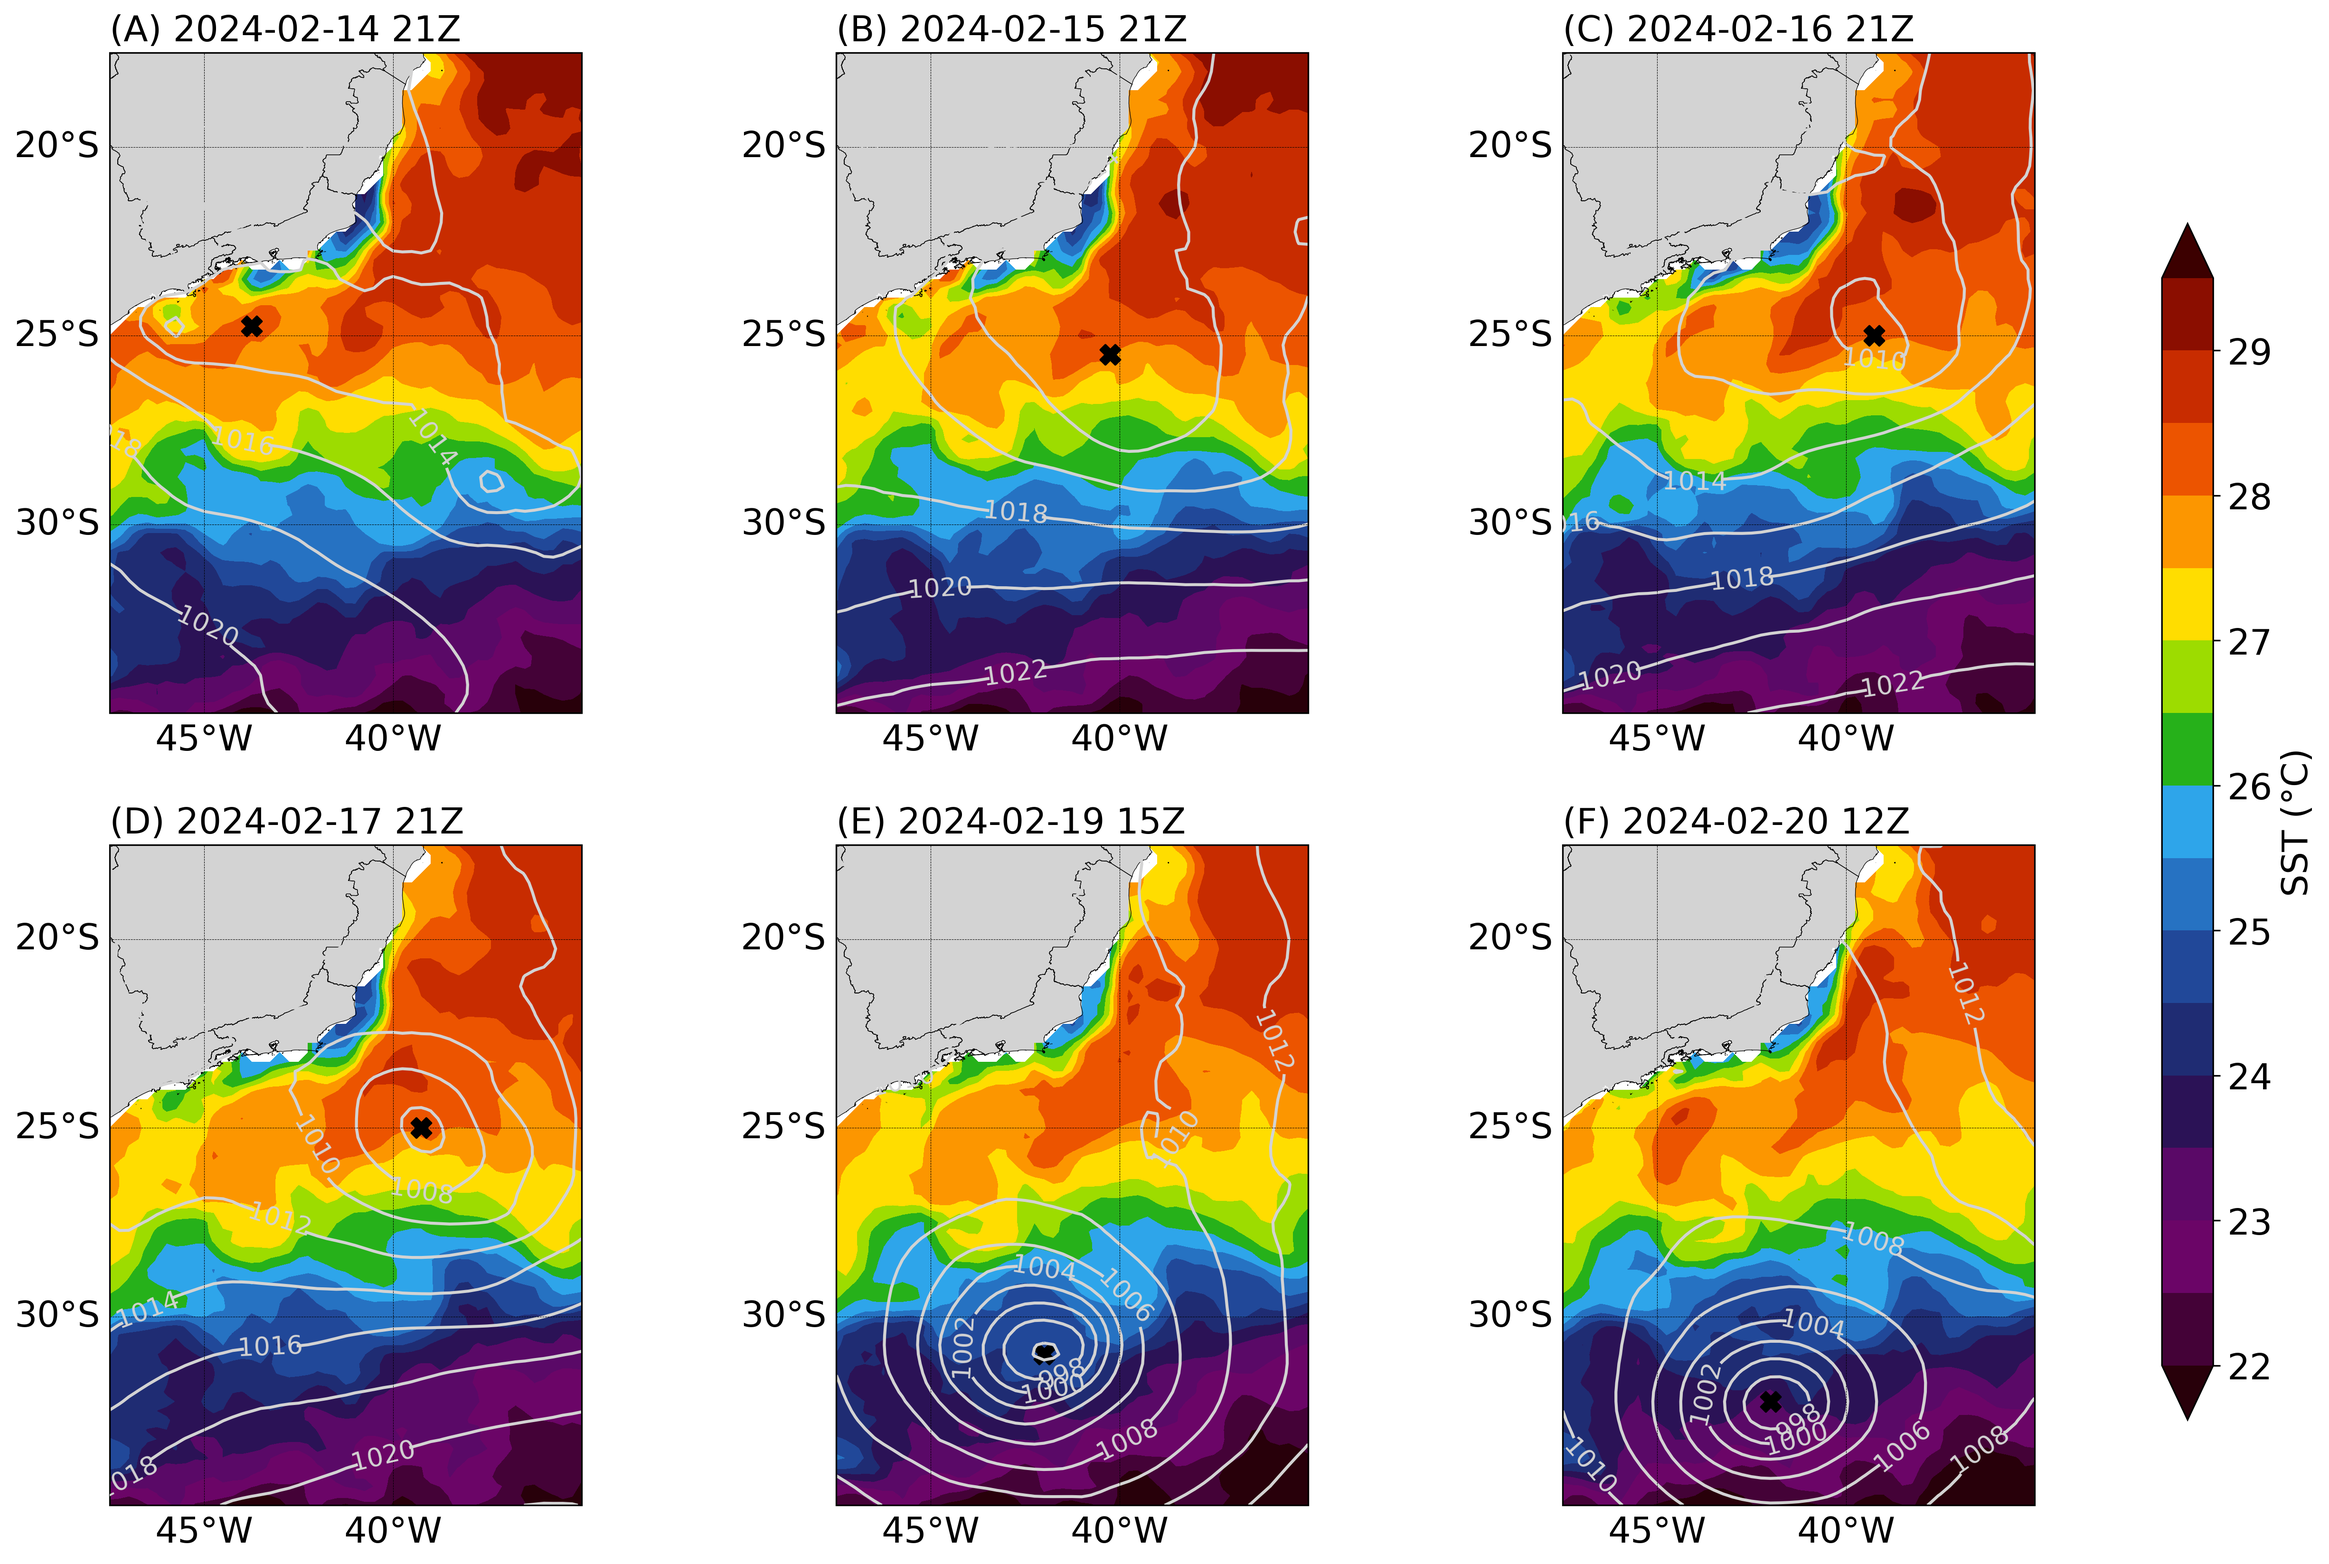
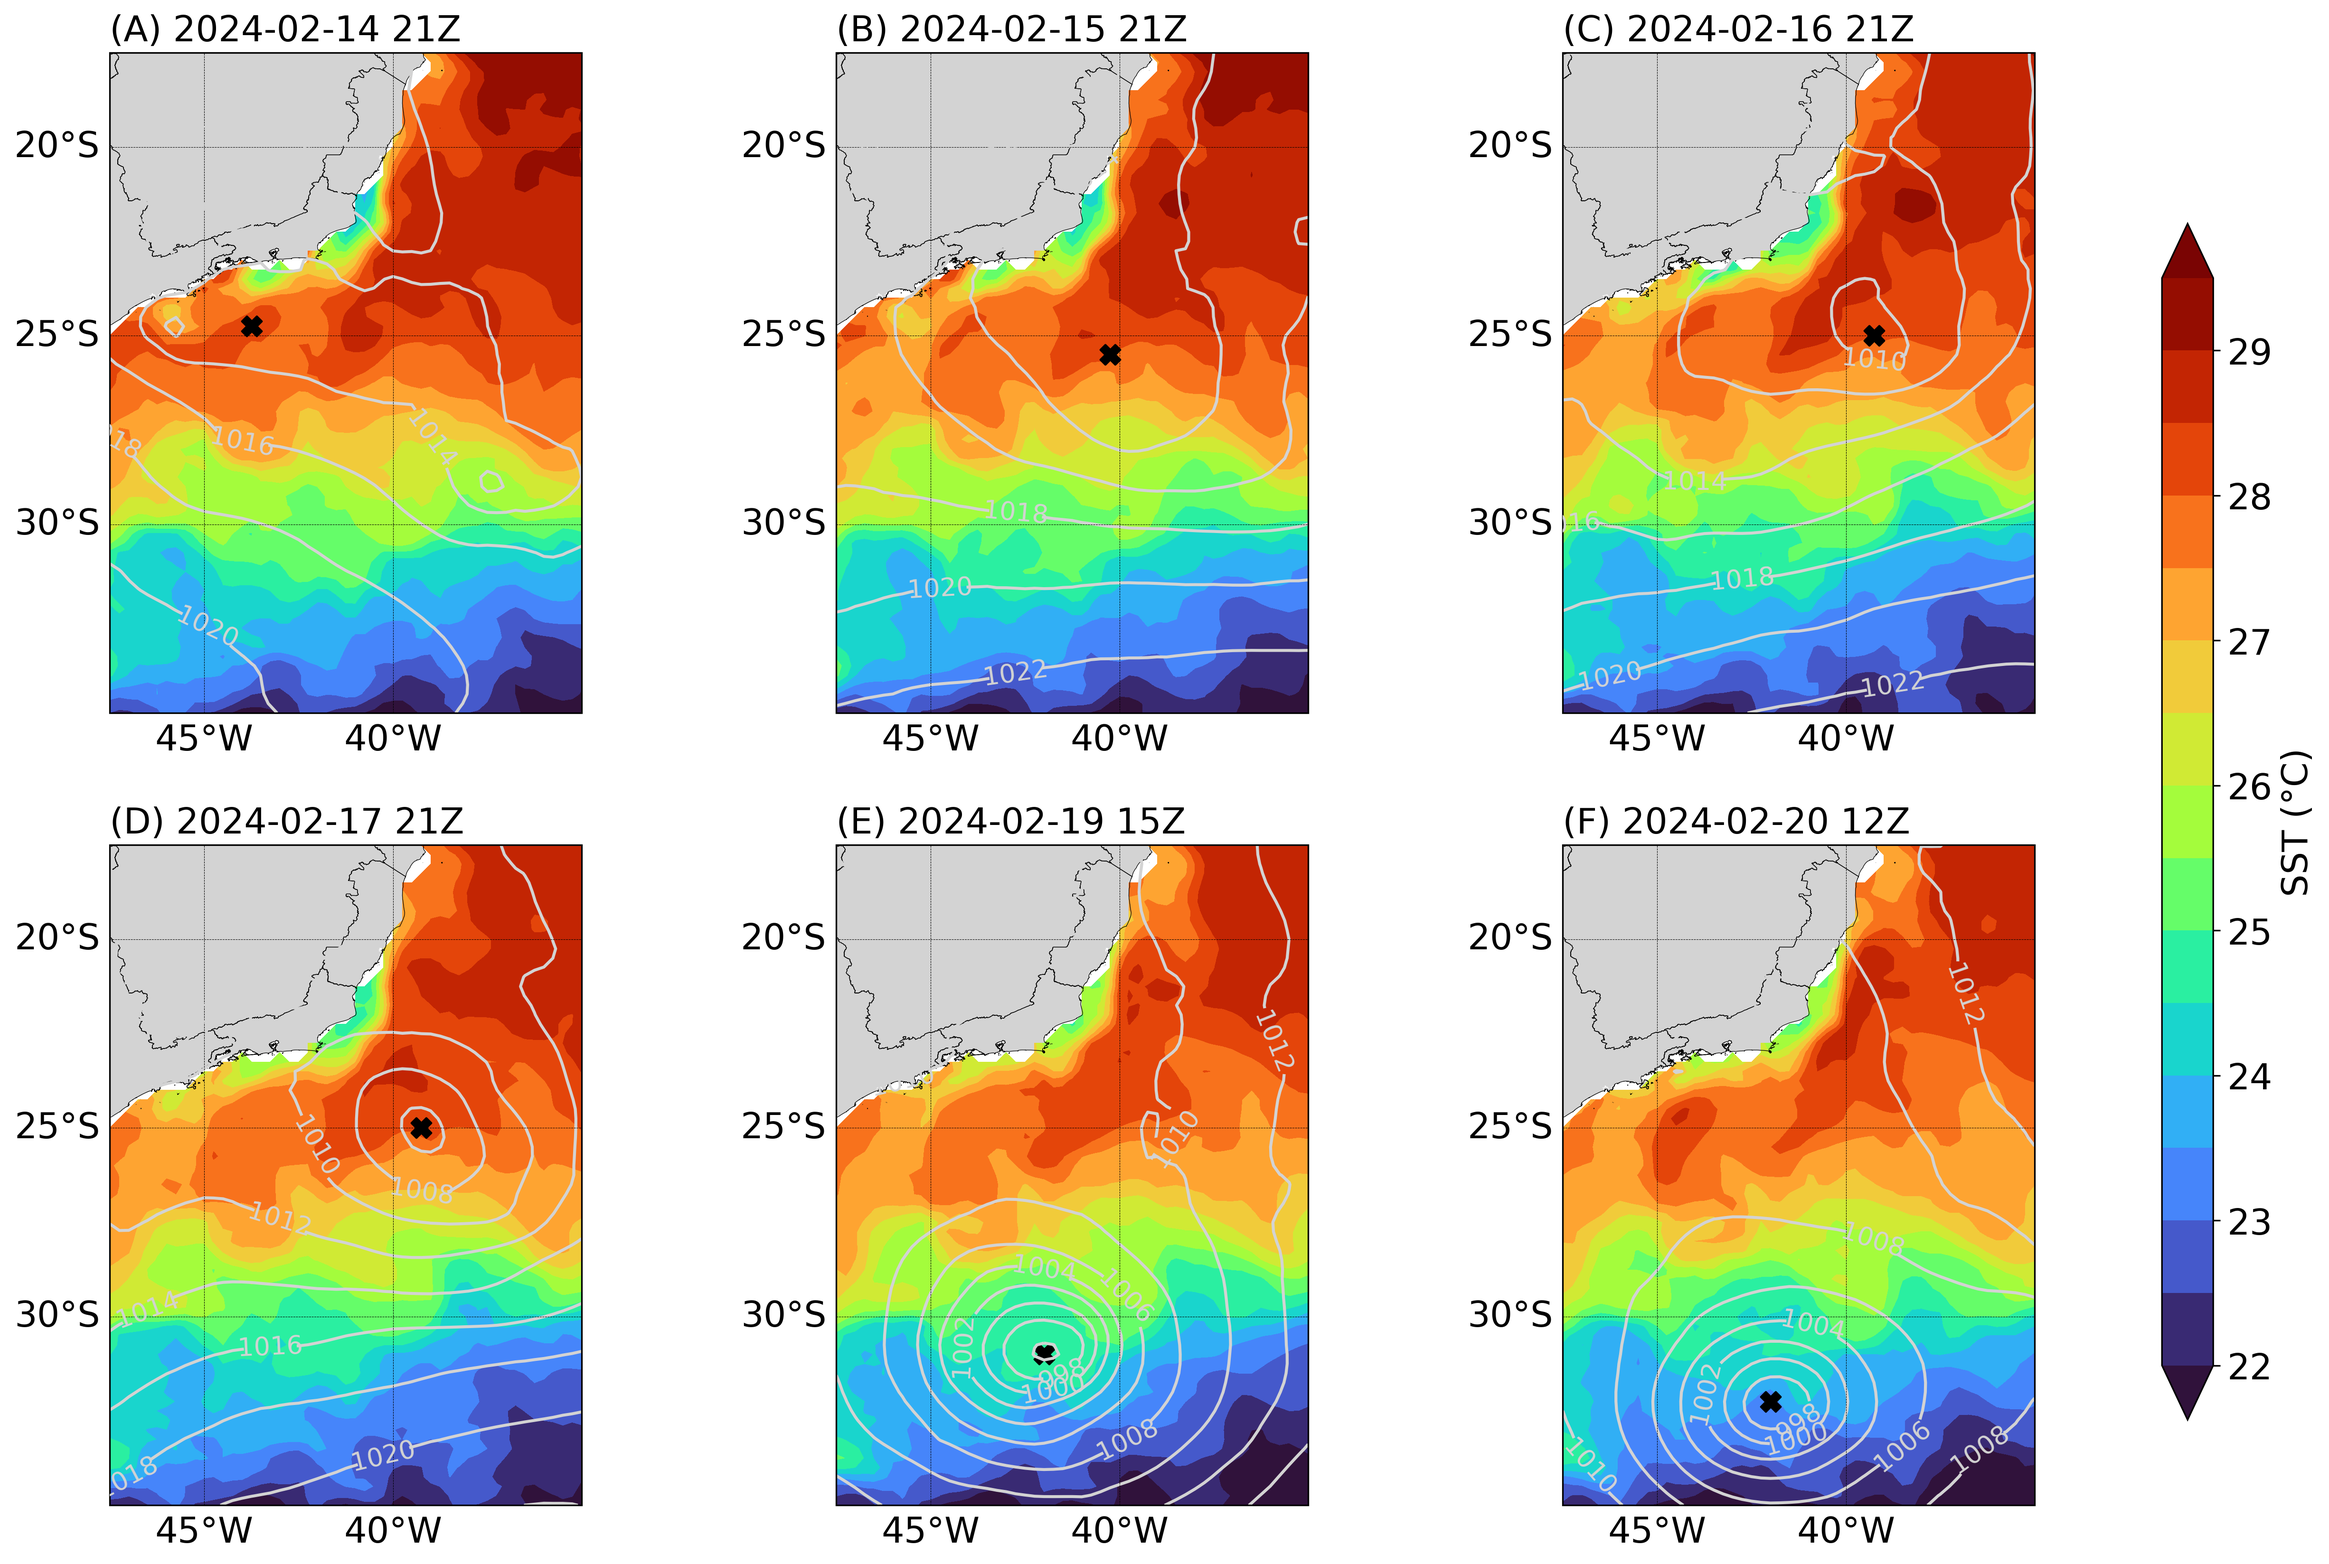
novas mapas

diff --git a/Akara/FIGS/scripts/color_turbo.py b/Akara/FIGS/scripts/color_turbo.py
@@ -1,0 +1,204 @@
+import numpy as np
+import matplotlib.pyplot as plt
+from matplotlib.colors import LinearSegmentedColormap
+import matplotlib.cm as cm
+
+turbo_colormap_data = np.array(
+    [[0.18995,0.07176,0.23217],
+     [0.19483,0.08339,0.26149],
+     [0.19956,0.09498,0.29024],
+     [0.20415,0.10652,0.31844],
+     [0.20860,0.11802,0.34607],
+     [0.21291,0.12947,0.37314],
+     [0.21708,0.14087,0.39964],
+     [0.22111,0.15223,0.42558],
+     [0.22500,0.16354,0.45096],
+     [0.22875,0.17481,0.47578],
+     [0.23236,0.18603,0.50004],
+     [0.23582,0.19720,0.52373],
+     [0.23915,0.20833,0.54686],
+     [0.24234,0.21941,0.56942],
+     [0.24539,0.23044,0.59142],
+     [0.24830,0.24143,0.61286],
+     [0.25107,0.25237,0.63374],
+     [0.25369,0.26327,0.65406],
+     [0.25618,0.27412,0.67381],
+     [0.25853,0.28492,0.69300],
+     [0.26074,0.29568,0.71162],
+     [0.26280,0.30639,0.72968],
+     [0.26473,0.31706,0.74718],
+     [0.26652,0.32768,0.76412],
+     [0.26816,0.33825,0.78050],
+     [0.26967,0.34878,0.79631],
+     [0.27103,0.35926,0.81156],
+     [0.27226,0.36970,0.82624],
+     [0.27334,0.38008,0.84037],
+     [0.27429,0.39043,0.85393],
+     [0.27509,0.40072,0.86692],
+     [0.27576,0.41097,0.87936],
+     [0.27628,0.42118,0.89123],
+     [0.27667,0.43134,0.90254],
+     [0.27691,0.44145,0.91328],
+     [0.27701,0.45152,0.92347],
+     [0.27698,0.46153,0.93309],
+     [0.27680,0.47151,0.94214],
+     [0.27648,0.48144,0.95064],
+     [0.27603,0.49132,0.95857],
+     [0.27543,0.50115,0.96594],
+     [0.27469,0.51094,0.97275],
+     [0.27381,0.52069,0.97899],
+     [0.27273,0.53040,0.98461],
+     [0.27106,0.54015,0.98930],
+     [0.26878,0.54995,0.99303],
+     [0.26592,0.55979,0.99583],
+     [0.26252,0.56967,0.99773],
+     [0.25862,0.57958,0.99876],
+     [0.25425,0.58950,0.99896],
+     [0.24946,0.59943,0.99835],
+     [0.24427,0.60937,0.99697],
+     [0.23874,0.61931,0.99485],
+     [0.23288,0.62923,0.99202],
+     [0.22676,0.63913,0.98851],
+     [0.22039,0.64901,0.98436],
+     [0.21382,0.65886,0.97959],
+     [0.20708,0.66866,0.97423],
+     [0.20021,0.67842,0.96833],
+     [0.19326,0.68812,0.96190],
+     [0.18625,0.69775,0.95498],
+     [0.17923,0.70732,0.94761],
+     [0.17223,0.71680,0.93981],
+     [0.16529,0.72620,0.93161],
+     [0.15844,0.73551,0.92305],
+     [0.15173,0.74472,0.91416],
+     [0.14519,0.75381,0.90496],
+     [0.13886,0.76279,0.89550],
+     [0.13278,0.77165,0.88580],
+     [0.12698,0.78037,0.87590],
+     [0.12151,0.78896,0.86581],
+     [0.11639,0.79740,0.85559],
+     [0.11167,0.80569,0.84525],
+     [0.10738,0.81381,0.83484],
+     [0.10357,0.82177,0.82437],
+     [0.10026,0.82955,0.81389],
+     [0.09750,0.83714,0.80342],
+     [0.09532,0.84455,0.79299],
+     [0.09377,0.85175,0.78264],
+     [0.09287,0.85875,0.77240],
+     [0.09267,0.86554,0.76230],
+     [0.09320,0.87211,0.75237],
+     [0.09451,0.87844,0.74265],
+     [0.09662,0.88454,0.73316],
+     [0.09958,0.89040,0.72393],
+     [0.10342,0.89600,0.71500],
+     [0.10815,0.90142,0.70599],
+     [0.11374,0.90673,0.69651],
+     [0.12014,0.91193,0.68660],
+     [0.12733,0.91701,0.67627],
+     [0.13526,0.92197,0.66556],
+     [0.14391,0.92680,0.65448],
+     [0.15323,0.93151,0.64308],
+     [0.16319,0.93609,0.63137],
+     [0.17377,0.94053,0.61938],
+     [0.18491,0.94484,0.60713],
+     [0.19659,0.94901,0.59466],
+     [0.20877,0.95304,0.58199],
+     [0.22142,0.95692,0.56914],
+     [0.23449,0.96065,0.55614],
+     [0.24797,0.96423,0.54303],
+     [0.26180,0.96765,0.52981],
+     [0.27597,0.97092,0.51653],
+     [0.29042,0.97403,0.50321],
+     [0.30513,0.97697,0.48987],
+     [0.32006,0.97974,0.47654],
+     [0.33517,0.98234,0.46325],
+     [0.35043,0.98477,0.45002],
+     [0.36581,0.98702,0.43688],
+     [0.38127,0.98909,0.42386],
+     [0.39678,0.99098,0.41098],
+     [0.41229,0.99268,0.39826],
+     [0.42778,0.99419,0.38575],
+     [0.44322,0.99551,0.37346],
+     [0.45858,0.99663,0.36142],
+     [0.47383,0.99755,0.34965],
+     [0.48893,0.99827,0.33818],
+     [0.50387,0.99879,0.32702],
+     [0.51865,0.99911,0.31617],
+     [0.53323,0.99923,0.30564],
+     [0.54762,0.99915,0.29545],
+     [0.56179,0.99888,0.28561],
+     [0.57575,0.99842,0.27613],
+     [0.58949,0.99776,0.26701],
+     [0.60299,0.99691,0.25827],
+     [0.61625,0.99586,0.24993],
+     [0.62927,0.99462,0.24198],
+     [0.64204,0.99317,0.23445],
+     [0.65457,0.99153,0.22734],
+     [0.66685,0.98970,0.22066],
+     [0.67887,0.98767,0.21443],
+     [0.69063,0.98545,0.20865],
+     [0.70213,0.98303,0.20334],
+     [0.71337,0.98041,0.19851],
+     [0.72435,0.97760,0.19418],
+     [0.73506,0.97458,0.19035],
+     [0.74551,0.97137,0.18704],
+     [0.75570,0.96797,0.18426],
+     [0.76563,0.96437,0.18204],
+     [0.77531,0.96058,0.18039],
+     [0.78474,0.95660,0.17934],
+     [0.79393,0.95243,0.17889],
+     [0.80289,0.94807,0.17907],
+     [0.81161,0.94352,0.17991],
+     [0.82010,0.93879,0.18143],
+     [0.82836,0.93387,0.18365],
+     [0.83639,0.92876,0.18659],
+     [0.84419,0.92346,0.19027],
+     [0.85177,0.91798,0.19470],
+     [0.85912,0.91231,0.19988],
+     [0.86626,0.90646,0.20583],
+     [0.87317,0.90042,0.21256],
+     [0.87986,0.89420,0.22009],
+     [0.88633,0.88780,0.22843],
+     [0.89259,0.88121,0.23759],
+     [0.89864,0.87444,0.24760],
+     [0.90447,0.86749,0.25844],
+     [0.91009,0.86035,0.27013],
+     [0.91550,0.85283,0.28267],
+     [0.92070,0.84498,0.29509],
+     [0.92570,0.83687,0.30839],
+     [0.93050,0.82839,0.32259],
+     [0.93510,0.81965,0.33768],
+     [0.93952,0.81067,0.35368],
+     [0.94375,0.80142,0.37058],
+     [0.94780,0.79192,0.38840],
+     [0.95168,0.78218,0.40711],
+     [0.95539,0.77220,0.42672],
+     [0.95894,0.76199,0.44722],
+     [0.96232,0.75156,0.46860],
+     [0.96555,0.74091,0.49086],
+     [0.96864,0.73005,0.51397],
+     [0.97158,0.71897,0.53790],
+     [0.97439,0.70769,0.56260],
+     [0.97706,0.69622,0.58807],
+     [0.97960,0.68455,0.61426],
+     [0.98203,0.67270,0.64114],
+     [0.98434,0.66066,0.66866],
+     [0.98654,0.64843,0.69679],
+     [0.98864,0.63602,0.72546],
+     [0.99064,0.62343,0.75462],
+     [0.99256,0.61066,0.78421],
+     [0.99439,0.59772,0.81416],
+     [0.99614,0.58461,0.84442],
+     [0.99782,0.57134,0.87500],
+     [0.99944,0.55791,0.90579],
+     [1.00000,0.54432,0.93676]
+    ])
+
+turbo_cmap = LinearSegmentedColormap.from_list("turbo", turbo_colormap_data)
+
+# Registrando o colormap no matplotlib
+#cm.register_cmap("turbo", turbo_cmap)
+
+# Agora você pode usar o colormap turbo normalmente
+plt.imshow(np.random.random((10,10)), cmap="turbo")
+plt.colorbar()
+plt.show()

diff --git a/Akara/FIGS/scripts/sst_composition.py b/Akara/FIGS/scripts/sst_composition.py
@@ -8,7 +8,7 @@ import matplotlib.colors as mcolors
 import pandas as pd
 
 DIRDADO = '/home/victor/USP/sinotica3/ATMOS-BUD/dados/'
-DIRFIG = '/home/victor/USP/sinotica3/ATMOS-BUD_Results/Akara/Charts/sst/'
+DIRFIG = '/home/victor/USP/sinotica3/ATMOS-BUD_Results/Akara/FIGS/Specific_Figures/sst_t2m/'
 DIRSHAPE = '/home/victor/USP/sat_goes/shapefile/BR_UF_2019.shp'
 DIRCSV2 = '/home/victor/USP/sinotica3/ATMOS-BUD_Results/Akara/Charts/csv_files/'
 
@@ -44,6 +44,9 @@ for idx, i in enumerate(lista_indice):
     # Dados do SST e MSL
     sst = ds_akara_slevel['sst'][:].isel(valid_time=i) - 273
     msl = ds_akara_slevel['msl'][:].isel(valid_time=i) / 100
+    t2m = ds_akara_slevel['t2m'][:].isel(valid_time=i)
+    t2m = t2m - 273
+    dif_temp = sst - t2m
 
     # Configurações do mapa
     ax.set_extent(extent, crs=ccrs.PlateCarree())
@@ -54,7 +57,7 @@ for idx, i in enumerate(lista_indice):
 
     # Contorno do SST
     interval = 0.5
-    img1 = ax.contourf(lon, lat, sst, levels=np.arange(22, 30, interval), cmap=dif_sstt2m, extend='both')
+    img1 = ax.contourf(lon, lat, dif_temp, levels=np.arange(-3, 4, interval), cmap='turbo', extend='both')
 
     # Contorno do MSL
     levels_mslp = np.arange(980, 1030, 2)
@@ -87,10 +90,10 @@ for idx, i in enumerate(lista_indice):
 # Adicionar barra de cores
 cbar_ax = fig.add_axes([0.90, 0.15, 0.02, 0.7])  # Ajuste o valor de 0.92 para 0.88
 cbar = fig.colorbar(img1, cax=cbar_ax, extend='both')
-cbar.set_label('SST (°C)', fontsize=18)
+cbar.set_label('SST -T2M (°C)', fontsize=18)
 cbar.ax.tick_params(labelsize=18)
 plt.subplots_adjust(left=0.05, right=0.9, top=0.95, bottom=0.1, wspace=0.0, hspace=0.2)
 
 
-plt.savefig(f'{DIRFIG}Akara_mslp_sst_multiplot.png', dpi=300, bbox_inches='tight')
+plt.savefig(f'{DIRFIG}Akara_mslp_sst_t2m_multiplot.png', dpi=300, bbox_inches='tight')
 

diff --git a/Akara/FIGS/scripts/mean_sst_track.py b/Akara/FIGS/scripts/mean_sst_track.py
@@ -112,7 +112,7 @@ import matplotlib.colors as mcolors
 
 # Diretórios de dados e figuras
 DIRDADO = '/home/victor/USP/sinotica3/ATMOS-BUD/dados/'
-DIRFIG = '/home/victor/USP/sinotica3/ATMOS-BUD_Results/Akara/Charts/mean_sst/'
+DIRFIG = '/home/victor/USP/sinotica3/ATMOS-BUD_Results/Akara/FIGS/Specific_Figures/sst_t2m/'
 DIRSHAPE = '/home/victor/USP/sat_goes/shapefile/BR_UF_2019.shp'
 DIRCSV2 = '/home/victor/USP/sinotica3/ATMOS-BUD_Results/Akara/Charts/csv_files/'
 
@@ -175,7 +175,7 @@ gl.ylabel_style = {'fontsize': 18}
 # Contorno da diferença de temperatura (SST - T2M)
 levels = np.arange(22, 30, 0.5)
 img = ax.contourf(lon, lat, media_sst, levels=levels, transform=ccrs.PlateCarree(),
-                  cmap='coolwarm', extend='both')
+                  cmap='turbo', extend='both')
 
 # Adicionar barra de cores
 cb = plt.colorbar(img, ax=ax, orientation='vertical', pad=0.05, shrink=1, aspect=20)

diff --git a/Akara/FIGS/scripts/sst_t2m_mslp.py b/Akara/FIGS/scripts/sst_t2m_mslp.py
@@ -16,7 +16,7 @@ import cartopy.io.shapereader as shpreader
 
 
 DIRDADO = '/home/victor/USP/sinotica3/ATMOS-BUD/dados/'
-DIRFIG = '/home/victor/USP/sinotica3/ATMOS-BUD_Results/Akara/Charts/sst_t2m_mslp/'
+DIRFIG = '/home/victor/USP/sinotica3/ATMOS-BUD_Results/Akara/FIGS/Specific_Figures/sst_t2m/'
 DIRSHAPE = '/home/victor/USP/sat_goes/shapefile/BR_UF_2019.shp'
 
 
@@ -61,7 +61,7 @@ for i in range(0, n_final):
     ax.add_feature(cfeature.BORDERS, linestyle='-', linewidth=0.5)
     interval=1
     ## plot dfi_temp
-    img1 = ax.contourf(lon, lat, dif_temp,range(-4, 4, interval), cmap=dif_sstt2m, extend='both')
+    img1 = ax.contourf(lon, lat, dif_temp,range(-4, 4, interval), cmap='turbo', extend='both')
     cbar = plt.colorbar(img1, ax=ax, aspect=15, extend='both')
     cbar.set_label('SST - T2M (°C)', rotation=270, labelpad=20, fontsize=18)
     ticks = np.arange(-4, 4, interval)

diff --git a/Akara/FIGS/scripts/akara_fase.py b/Akara/FIGS/scripts/akara_fase.py
@@ -11,8 +11,8 @@ import matplotlib.patches as mpatches
 
 
 DIRCSV = '/home/victor/USP/sinotica3/ATMOS-BUD_Results/Akara/AtmosBud/akara1_track/'
-DIRCSV2 =  '/home/victor/USP/sinotica3/ATMOS-BUD_Results/Akara/Charts/csv_files/'
-DIRFIG = '/home/victor/USP/sinotica3/ATMOS-BUD_Results/Akara/Charts/'
+DIRCSV2 =  '/home/victor/USP/sinotica3/ATMOS-BUD_Results/Akara/CSV_FILES/'
+DIRFIG = '/home/victor/USP/sinotica3/ATMOS-BUD_Results/Akara/FIGS/Specific_Figures/serie/'
 
 df = pd.read_csv(DIRCSV+'akara1_track_track.csv', sep=';')
 df2 = pd.read_csv(DIRCSV2+'trackfile.v3.txt', sep='\s+', header=None, names=["time", "Lat", "Lon", "mslp", "vort850"])
